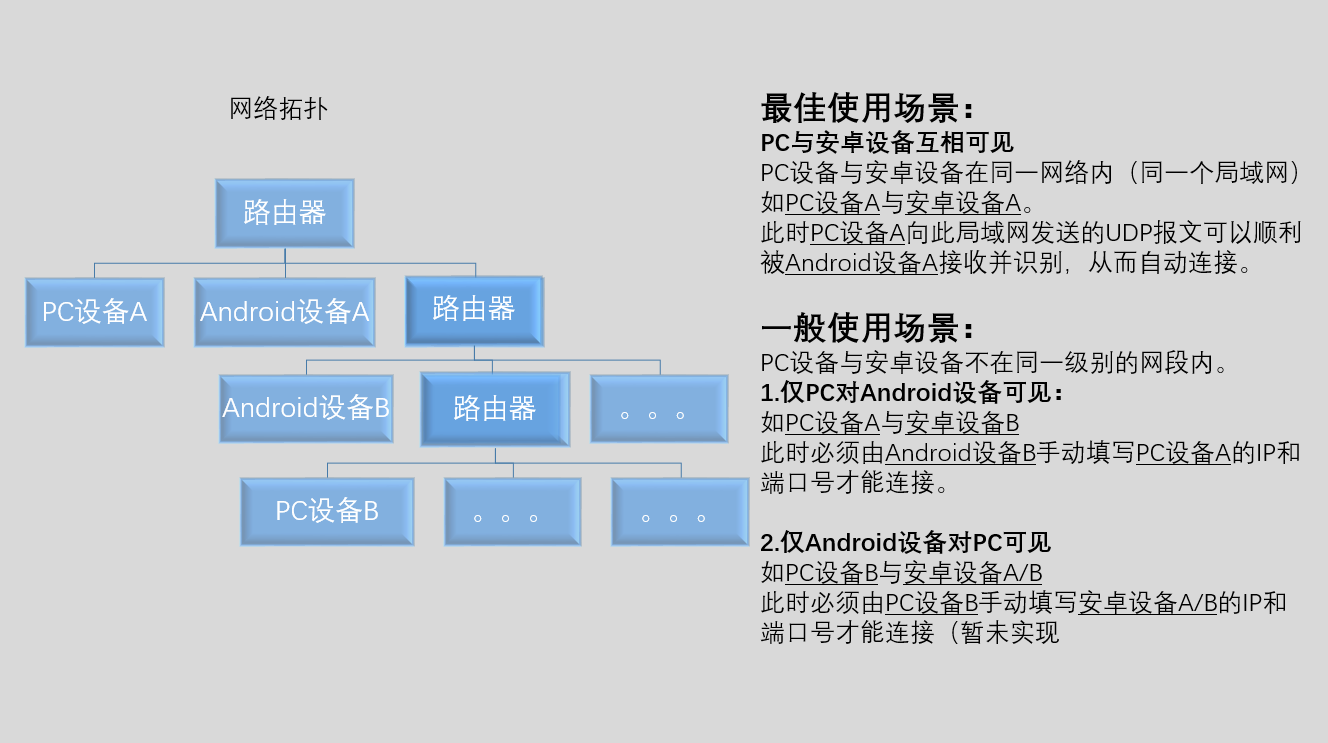
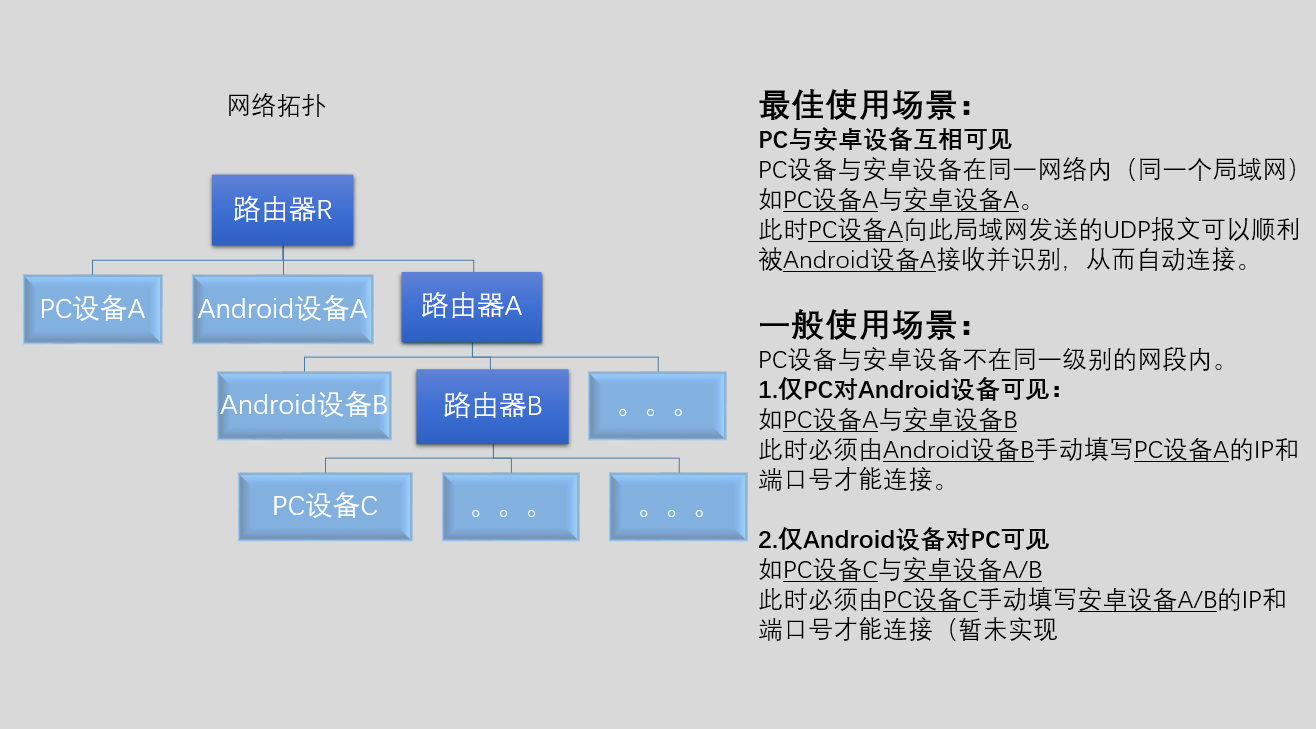
更新md文件

Changed region(s): [[0.0, 0.2414, 0.997, 0.8752], [0.5608, 0.1207, 0.997, 0.3923], [0.1558, 0.1207, 0.2492, 0.1811]]

diff --git a/README.md b/README.md
@@ -1,5 +1,6 @@
-# ShareOnLan简介
+# ShareOnLan
 
+**简介：**
 Windows Connect With Android  
 Windows平台与安卓在局域网下互传、发送文本、文件的小工具  
 包括Windows端的exe和Android端的app
@@ -9,53 +10,101 @@ Windows平台与安卓在局域网下互传、发送文本、文件的小工具
 
 Windows端是基于QT开发的一个GUI程序
 
-Android端是基于Android studio开发的app
+Android端是基于Android Studio开发的app
 ***
 
 ## 运行原理&设计思路
+![原理图](https://img-blog.csdnimg.cn/20201117174213479.png?x-oss-process=image/watermark,type_ZmFuZ3poZW5naGVpdGk,shadow_10,text_aHR0cHM6Ly9ibG9nLmNzZG4ubmV0L3dlaXhpbl80NTE5NDYzNg==,size_16,color_FFFFFF,t_70#pic_center)
 
-![image](https://github.com/LCiZY/ShareOnLan/blob/main/images/prototype.png)
+对于PC设备A和Android设备A来说，PC设备A和Android设备A只能看到路由器A，Android设备B所在的那一层对于前面说的两个设备来说是内网设备而不可见（因为Android设备B所在的网络是属于路由器A的子网），这也就是为什么你在外面用移动数据不能直接连接家里的没有公网ip的设备了(想连接的话可以用内网穿透工具如frp）。
+
 ***
 
 ## 运行流程
+
 
 **正常流程：**  
 
 1. 由Windows端向所在局域网(LAN)广播UDP包，UDP payload包含PC端的IP、端口号、链接密钥（经过简单加密）。  
 2. Android端监听UDP广播包，然后解密payload，验证密钥是否正确：若密钥正确，将IP和端口号填在app的对应输入框里，否则不予置理。  
-3. Android的监测线程会每隔数秒自动尝试连接由IP输入框和端口号输入框指定的主机。  
-4. 连接成功后，监测线程停止，UDP监听线程停止，PC端会每隔一段时间向Android端发送一条"连接控制消息"（向Android端表明PC端还活着）。  
-5. 若Android端在一个超时时间周期内没有收到PC端发来的"连接控制消息"，则认为PC端已离线，就会更新界面（显示为未连接），监测线程会重新开始运行；UDP监听线程也会重新开始监听。  
+3. Android的监测线程会每隔数秒自动尝试发起TCP连接（本文中暂且称之为“控制链路”），连接至由IP输入框和端口号输入框指定的主机。  
+4. 连接成功后，安卓端监测线程停止，UDP监听线程停止。PC端会每隔一段时间通过“控制链路”向Android端发送一条"连接控制消息"（向Android端表明PC端还活着），Android收到后也会通过“控制链路”回应一条"连接控制消息"（向PC端表明Android端还活着）。  
+5. 若双方在一个超时时间周期内没有收到对方发来的"连接控制消息"，则认为对方因不可抗力已离线，主动关闭连接。Android端更新界面、监测线程会重新开始运行、UDP监听线程也会重新开始监听；PC端更新托盘Tooltips信息。（因不可抗力可能发生这样的情况：其中一方离线，但另一方还傻傻的保留了控制链路的socket，全然不知道发生了什么，以为对方还在）  
+6. 发送文本：通过控制链路传输文本消息（理论上应该另开一条TCP连接较好）
+7. 发送文件：每当文件发送时都会新建一条TCP连接发送文件
 
 **一般流程(Android端无法接收Windows端发送的UDP报文)：**
 
 1. 查看PC端程序的托盘Tooltip(提示消息)上的IP和端口号
 2. 用户输入PC端的IP和端口
-3. Android的监测线程会每隔数秒自动尝试连接由IP输入框和端口号输入框指定的主机。
-4. 连接成功后，监测线程停止，UDP监听线程停止，PC端会每隔一段时间向Android端发送一条"连接控制消息"（向Android端表明PC端还活着）。
-5. 若Android端在一个超时时间周期内没有收到PC端发来的"连接控制消息"，则认为PC端已离线，就会更新界面（显示为未连接），监测线程会重新开始运行；UDP监听线程也会重新开始监听。
+3. 本步骤及以下同**正常流程**  
+4. ..
+
+***
 
 ## 运行实例
+  
+#### 主界面
 
-![PC端主界面](https://github.com/LCiZY/ShareOnLan/blob/main/images/prototype.png)
+![主界面](https://img-blog.csdnimg.cn/20201117165522815.png?x-oss-process=image/watermark,type_ZmFuZ3poZW5naGVpdGk,shadow_10,text_aHR0cHM6Ly9ibG9nLmNzZG4ubmV0L3dlaXhpbl80NTE5NDYzNg==,size_16,color_FFFFFF,t_70#pic_center)
+**连接密钥**：是从安卓端的主界面获取的（作用是自动连接时验证是不是你的PC，如果手动输入IP和端口号的话可以忽略它
+**监听端口**：指定PC在哪个端口监听（有点多余
+**开机自启**：顾名思义
+**启动时隐藏此界面**：不显示此界面，不过还有托盘（双击托盘恢复
+**文件保存路径**：可以自定义保存文件的目录
+***
 
-![PC端托盘图标及ToolTip](https://github.com/LCiZY/ShareOnLan/blob/main/images/systray-tooltip.png)
+#### PC端托盘菜单
 
-![PC端更改文件储存位置](https://github.com/LCiZY/ShareOnLan/blob/main/images/changeFileLocation.png)
+![托盘菜单](https://img-blog.csdnimg.cn/2020111716560479.png#pic_center)
+**发送文本**：点击会自动发送剪贴板里的内容，Android端的剪切板上就会被设置上相同的内容
+**发送文件**：点击后选择文件发送
+**关闭连接**：当你发现PC端说连上了，Android端提示没连上就点一哈
+**重启服务**：软件不好使的时候试试哦，有奇效（依据的是[鸵鸟算法](https://baike.baidu.com/item/%E9%B8%B5%E9%B8%9F%E7%AE%97%E6%B3%95/4342932?fr=aladdin)
+**显示主界面**：显示的是设置界面
+**退出**：非常放心的退出了
+***
 
-![PC端打开文件储存文件夹](https://github.com/LCiZY/ShareOnLan/blob/main/images/openFileLocateDir.png)
+#### PC端托盘菜单的ToolTip
 
-![Android端未连接/正在连接界面](https://github.com/LCiZY/ShareOnLan/blob/main/images/unconnected-connecting.jpg)
+![在这里插入图片描述](https://img-blog.csdnimg.cn/20201117165639313.png#pic_center)
+当你有多个网卡是有效的时，会显示多行IP:*** 端口:***  
+***
 
-![Android端已连接界面](https://github.com/LCiZY/ShareOnLan/blob/main/images/connected.jpg)
+#### PC端更改文件储存位置
 
-![Android端接收到的文件](https://github.com/LCiZY/ShareOnLan/blob/main/images/filesView.jpg)
+![PC端更改文件储存位置](https://img-blog.csdnimg.cn/20201117165711712.png?x-oss-process=image/watermark,type_ZmFuZ3poZW5naGVpdGk,shadow_10,text_aHR0cHM6Ly9ibG9nLmNzZG4ubmV0L3dlaXhpbl80NTE5NDYzNg==,size_16,color_FFFFFF,t_70#pic_center)
 
-<iframe height=500 width=500 src="https://github.com/LCiZY/ShareOnLan/blob/main/images/operateDemo/openReceivedFile.gif"></iframe>  
+***
 
-<iframe height=500 width=500 src="https://github.com/LCiZY/ShareOnLan/blob/main/images/operateDemo/sendFileToPC.gif"></iframe>  
+#### PC端打开文件储存文件夹
 
-## Bug
+![PC端打开文件储存文件夹](https://img-blog.csdnimg.cn/20201117165734697.png?x-oss-process=image/watermark,type_ZmFuZ3poZW5naGVpdGk,shadow_10,text_aHR0cHM6Ly9ibG9nLmNzZG4ubmV0L3dlaXhpbl80NTE5NDYzNg==,size_16,color_FFFFFF,t_70#pic_center)
+  ***
+  
+#### Android端未连接/正在连接界面
 
-1. 长时间运行后Windows端假死
-2. Android端发送文件无提示  
+![Android端未连接/正在连接界面](https://img-blog.csdnimg.cn/20201117165917971.jpg?x-oss-process=image/watermark,type_ZmFuZ3poZW5naGVpdGk,shadow_10,text_aHR0cHM6Ly9ibG9nLmNzZG4ubmV0L3dlaXhpbl80NTE5NDYzNg==,size_16,color_FFFFFF,t_70#pic_center)
+ 点击蓝色的小飞机会改变并提示当前状态
+  ***
+  
+#### Android端已连接界面
+
+![Android端已连接界面](https://img-blog.csdnimg.cn/20201117170001658.jpg?x-oss-process=image/watermark,type_ZmFuZ3poZW5naGVpdGk,shadow_10,text_aHR0cHM6Ly9ibG9nLmNzZG4ubmV0L3dlaXhpbl80NTE5NDYzNg==,size_16,color_FFFFFF,t_70#pic_center)
+此时点击关闭按钮会关闭连接
+  ***
+  
+#### Android端接收到的文件
+
+![Android端接收到的文件](https://img-blog.csdnimg.cn/2020111717001342.jpg?x-oss-process=image/watermark,type_ZmFuZ3poZW5naGVpdGk,shadow_10,text_aHR0cHM6Ly9ibG9nLmNzZG4ubmV0L3dlaXhpbl80NTE5NDYzNg==,size_16,color_FFFFFF,t_70#pic_center)
+  ***
+  
+#### Android端处理接收到的文件
+
+![安卓端处理接收到的文件](https://img-blog.csdnimg.cn/20201117170148652.gif#pic_center)
+  ***
+  
+#### 安卓端发送文件到PC端（选择其他应用打开/分享 → 选择Share On Lan）
+
+![从安卓端发送文件到PC端](https://img-blog.csdnimg.cn/20201117170212941.gif#pic_center)
+在Android端选择文件然后用其他方式打开选择Share On Lan应用就可以发送了
